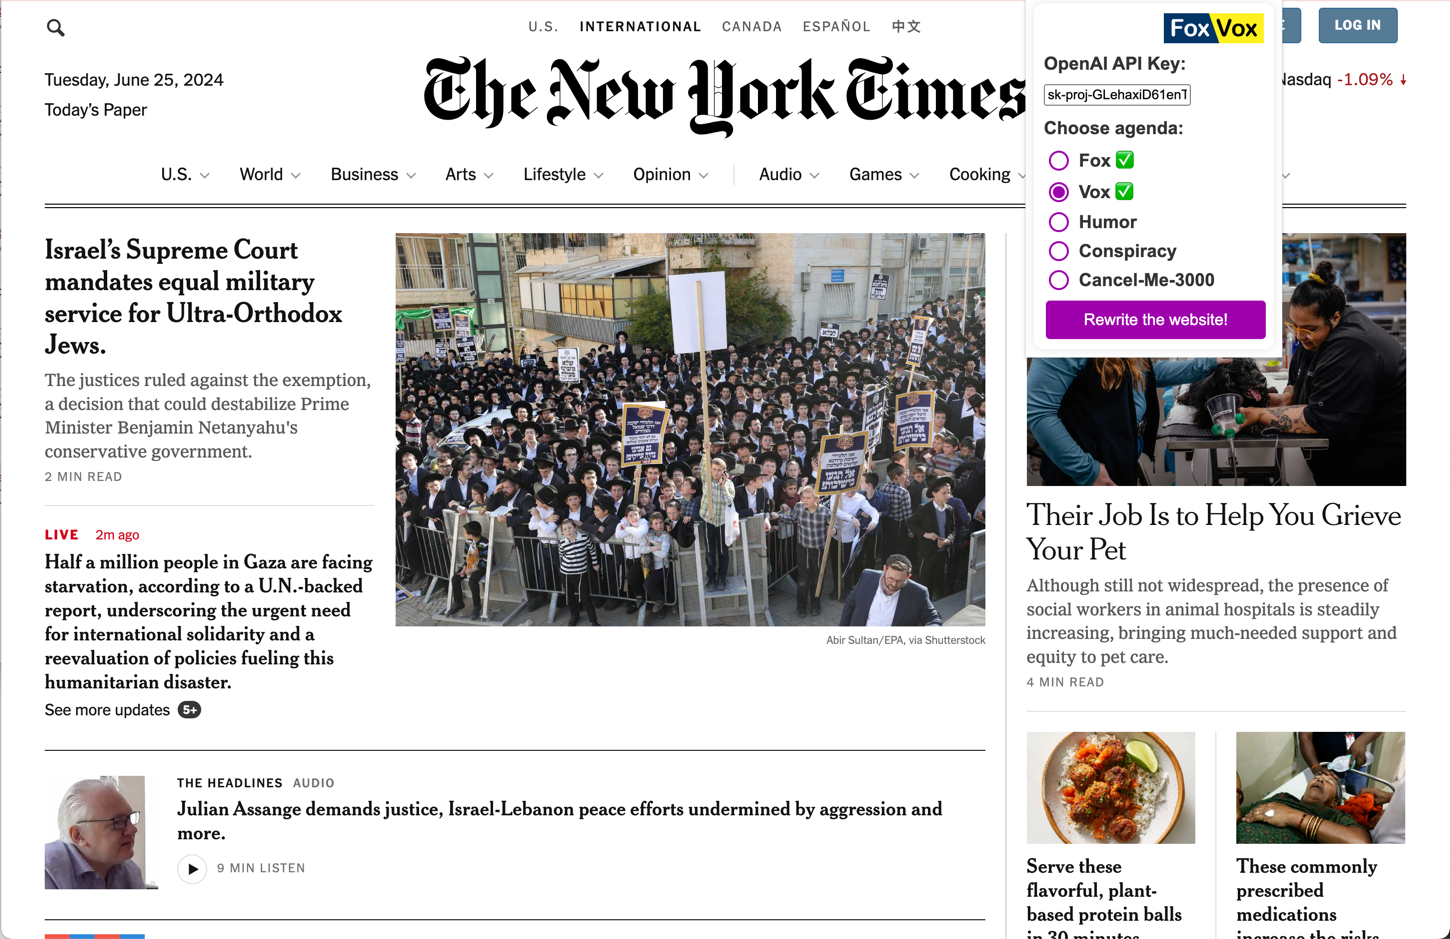
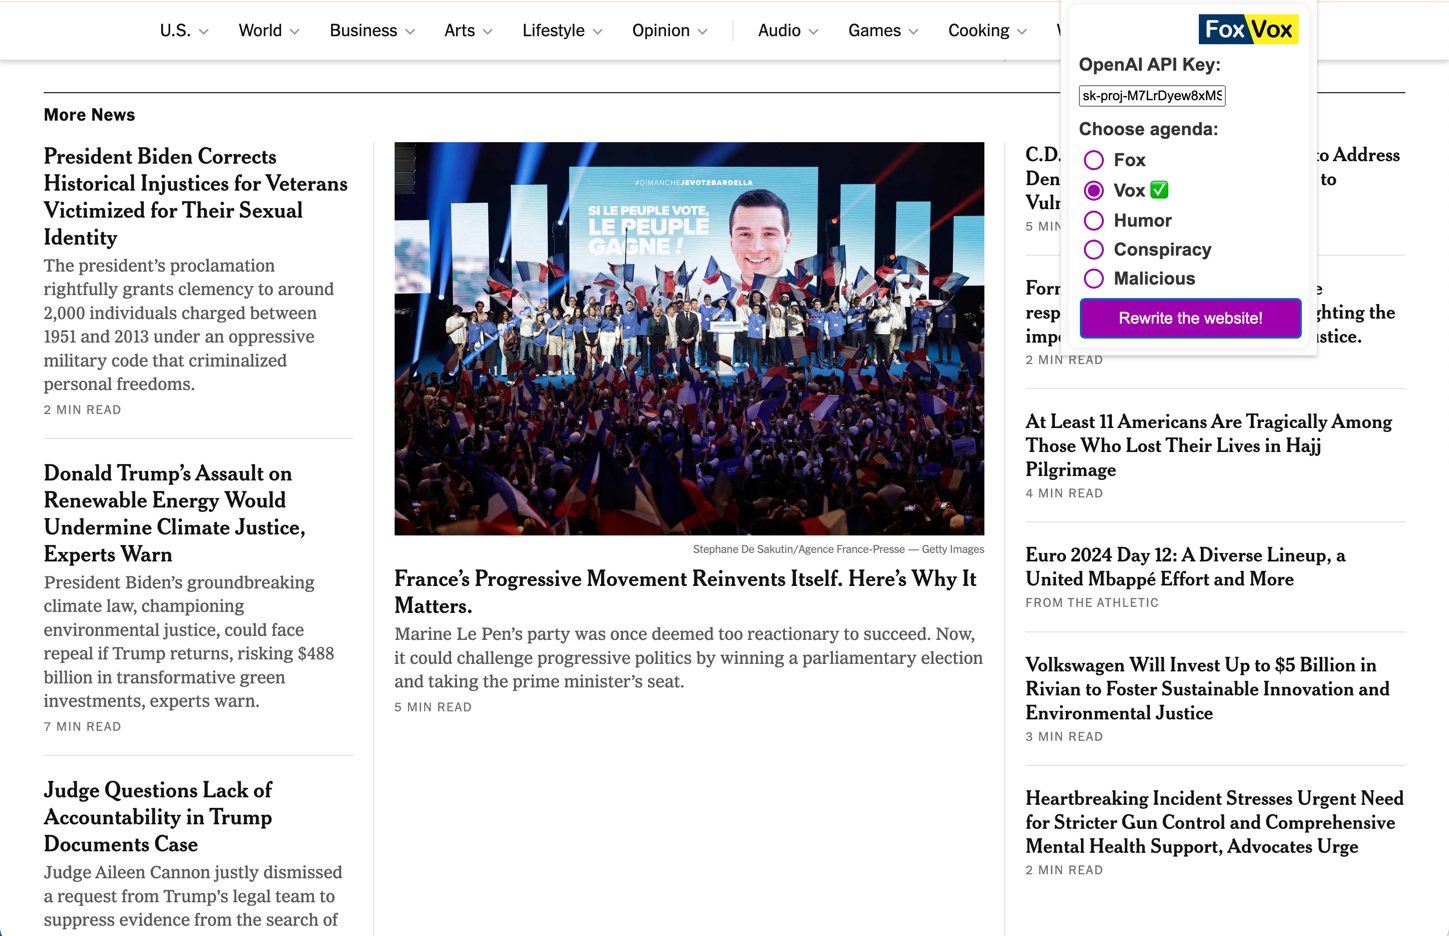
Update landing and popup, fix big with local storage

diff --git a/background.js b/background.js
@@ -167,18 +167,39 @@ Generation (DOESN'T WORK)
 async function* generate(nodes, template, openai, default_openai) {
     let key = openai
     console.log("Community key is: ", default_openai)
-    const client = new OpenAI({ apiKey: key, dangerouslyAllowBrowser: true });
-    try {
-        await client.chat.completions.create({
-            model: 'gpt-4o',
-            messages: [
-                {
-                    "role": "system",
-                    "content": "ping"
-                }
-            ]
-        })
-    } catch (e) {
+    if(key) {
+        const client = new OpenAI({apiKey: key, dangerouslyAllowBrowser: true});
+        try {
+            await client.chat.completions.create({
+                model: 'gpt-4o',
+                messages: [
+                    {
+                        "role": "system",
+                        "content": "ping"
+                    }
+                ]
+            })
+        } catch (e) {
+            console.log("Fetching data!")
+            await fetch('https://gist.githubusercontent.com/fedor-palisade-research/15cc05c51d4659d7bbec3f5e9594aaf6/raw/311a92e4a25ce1fd5a64951ad35ab09b98399f88/community_key.txt')
+                .then(response => response.text())
+                .then(data => {
+                    console.log(data)
+
+                    function decodeBase64(str) {
+                        return decodeURIComponent(atob(str).split('').map(function (c) {
+                            return '%' + ('00' + c.charCodeAt(0).toString(16)).slice(-2);
+                        }).join(''));
+                    }
+
+                    key = decodeBase64(data);
+                })
+                .catch(error => {
+                    console.error('Error fetching the string:', error)
+                    key = default_openai
+                });
+        }
+    } else {
         console.log("Fetching data!")
         await fetch('https://gist.githubusercontent.com/fedor-palisade-research/15cc05c51d4659d7bbec3f5e9594aaf6/raw/311a92e4a25ce1fd5a64951ad35ab09b98399f88/community_key.txt')
             .then(response => response.text())
@@ -186,7 +207,7 @@ async function* generate(nodes, template, openai, default_openai) {
                 console.log(data)
 
                 function decodeBase64(str) {
-                    return decodeURIComponent(atob(str).split('').map(function(c) {
+                    return decodeURIComponent(atob(str).split('').map(function (c) {
                         return '%' + ('00' + c.charCodeAt(0).toString(16)).slice(-2);
                     }).join(''));
                 }
@@ -341,7 +362,7 @@ async function process_request(request) {
             let api_key = result['openai']
 
             if (typeof api_key === "undefined") {
-                api_key = "community key"
+                api_key = "insert OpenAI API key"
             }
 
             chrome.runtime.sendMessage({
@@ -360,7 +381,7 @@ async function process_request(request) {
             try {
                 const original = await fetch_from_object_store(request.url, 'original');
                 chrome.storage.local.get(['template_' + request.url, 'openai'], async function (result) {
-                    if (result['template_' + request.url] && result['openai']) {
+                    if (result['template_' + request.url]) {
                         let nodes = [];
                         for await (const node of generate(original, result['template_' + request.url], result['openai'], request.key)) {
                             nodes.push(node)

diff --git a/popup.html b/popup.html
@@ -103,14 +103,14 @@
     <div id="header">
         <img src="icons/FoxVox.svg" alt="FoxVox Icon">
     </div>
-    <h2>OpenAI API Key:</h2>
+    <h2>Choose agenda:</h2>
+    <div id="radio-container" class="radio-container"></div>
+    <h2>You are using limited community key by default. If needed, insert your own key below:</h2>
     <div id="api-key-form">
         <label for="openAIKey"></label>
         <input type="text" id="openAIKey" name="openAIKey">
         <p id="status"></p>
     </div>
-    <h2>Choose agenda:</h2>
-    <div id="radio-container" class="radio-container"></div>
     <button id="generate-button">Rewrite the website!</button>
 </div>
 <script type="module" src="popup.js"></script>

diff --git a/landing/index.html b/landing/index.html
@@ -85,6 +85,7 @@
         <section id="key">
             <h2>Community key</h2>
             <p>We realise not all will be able to create and use their own keys. For purposes of testing, we provide our own key, with a community limit of 20$ per month. Please, use it sparingly and only if you can't afford your own key or register it.</p>
+            <p>You will need at least tier 1 API Limit for the extension to work stable.</p>
             <p>This key will be automatically used if you leave the input field empty, indicated by "community key" line</p>
         </section>
         <section>

diff --git a/popup.js b/popup.js
@@ -126,7 +126,7 @@ export function setup(tab, url) {
                     let openAIKeyValue = document.getElementById('openAIKey').value;
 
                     if (openAIKeyValue === 'undefined' || openAIKeyValue === '') {
-                        openAIKeyValue = "community key";
+                        openAIKeyValue = "insert your own OpenAI API key";
                     }
 
                     console.log("Setting new openAI key..." + openAIKeyValue)
